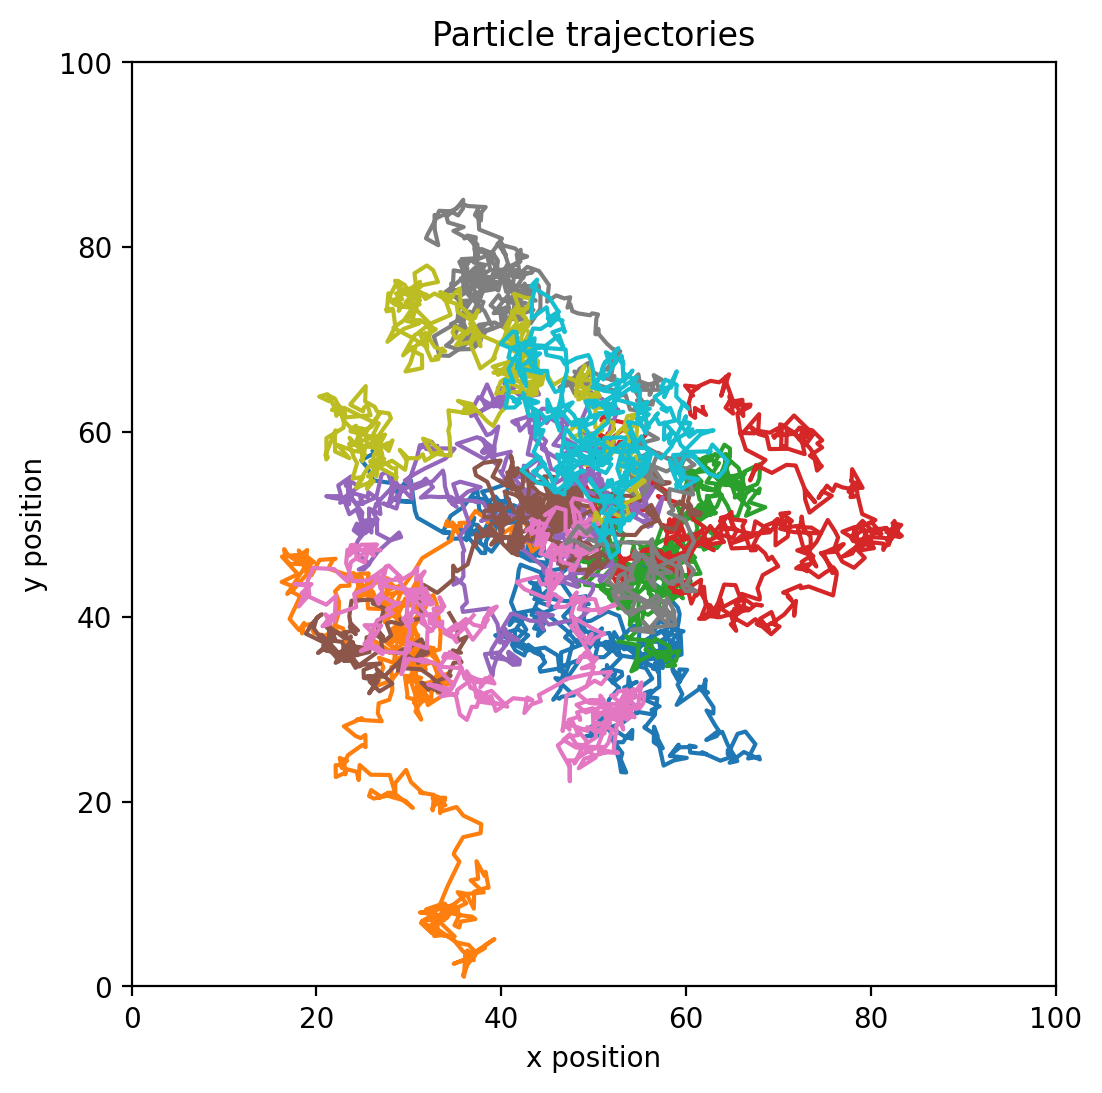
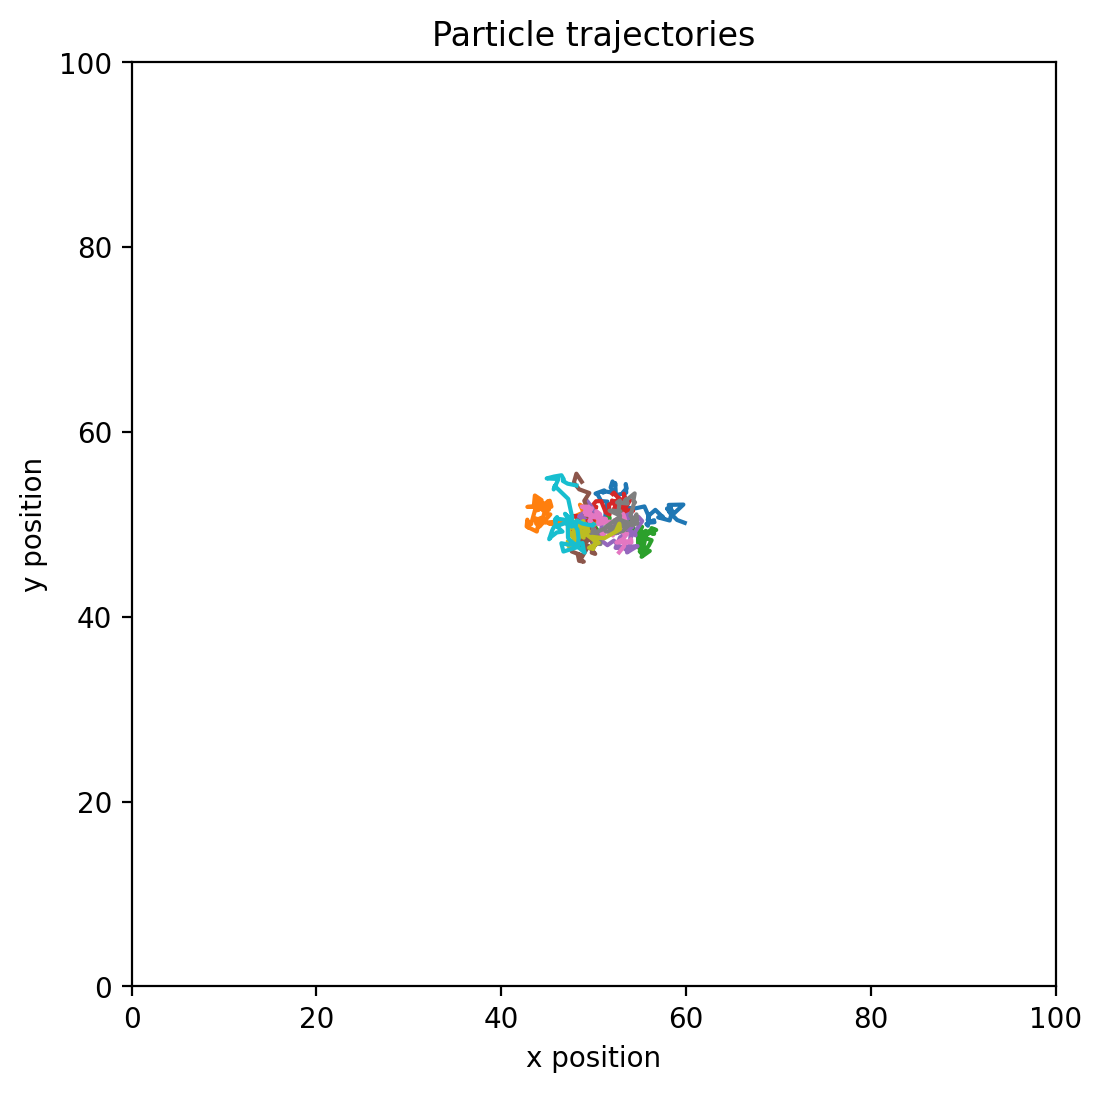
finished module 1 answers.

Changed region(s): [[0.2468, 0.1866, 0.833, 0.7155], [0.2777, 0.6532, 0.4628, 0.9021]]

diff --git a/docs/module_01_comprehension_questions.md b/docs/module_01_comprehension_questions.md
@@ -1,0 +1,166 @@
+# Module 1 Comprehension Questions
+
+Use a recorded experiment and its trajectory plot when answering these questions. State the seed and parameters you used whenever a question asks about a specific run.
+
+## Reading One Trajectory
+
+1. Follow one particle from its starting point to its final point. Does its path resemble a straight line? What visible features support your answer?
+**No, it is a very jagged line.  I ran one particle for 500 steps with 0.25 noise factor.**
+> **Feedback:** Correct. The jagged path is the visible consequence of many independent random increments. Record the seed as well as the number of steps and noise scale for a particular run.
+
+2. At any point along that trajectory, could you have reliably predicted its next direction from the plot alone? Why or why not?
+**No, althought I need more explanation on what the Gauss factor is in the randomness.**
+> **Feedback:** `gauss(0, noise_scale)` samples a displacement from a normal (Gaussian) distribution with mean $0$ and standard deviation `noise_scale`. Mean $0$ means no preferred $x$ or $y$ direction across many steps, not that an individual step is zero. Each step draws fresh independent values for $x$ and $y$, so the plot cannot predict the next direction.
+
+3. Does ending close to the starting position mean that the particle moved very little during the experiment? Explain using the plotted path.
+**No, it moves according the number of steps**
+> **Feedback:** Good direction. Ending near the start means **net displacement** is small, but the particle may still have traveled a long total path while repeatedly changing direction. More steps create more opportunities to move; they do not guarantee a large final displacement.
+
+4. What does the trajectory plot show directly? What information about the simulation does it not show directly?
+**It shows jagged paths**
+> **Feedback:** It directly shows the recorded $x,y$ positions and their order. It does not directly show the random draws, their distribution, molecular collisions, a physical time calibration, or biological accuracy.
+
+5. In this model, what does one plotted segment represent mathematically?
+**One segment represents a vector**
+> **Feedback:** Correct. More precisely, it is the displacement vector between consecutive recorded positions: $(\Delta x, \Delta y)$.
+
+## Comparing Many Particles
+
+6. Run one particle and then 100 particles with the same seed, noise scale, number of steps, and domain. What changes in the visualization?
+**There are many more colors**
+> **Feedback:** Correct. The larger run also makes the population's spread easier to see because it provides many samples of the same stochastic process.
+
+7. Which behavior appears more predictable: an individual trajectory or the overall distribution of many particle positions? Describe the evidence in the plot.
+**The overall distribution seems much more predictable**
+> **Feedback:** Correct. Individual paths remain unpredictable, but many independent particles reveal a more stable aggregate spatial pattern.
+
+8. Do particles that start from the same position follow identical paths? Which model rule explains the result?
+**No, I think it's the randomness**
+> **Feedback:** Correct. Each particle receives separate random $x$ and $y$ draws on every step, so shared starting positions do not produce shared trajectories.
+
+9. Is a visibly spread-out group of particles evidence that every particle has moved the same distance? How could you check?
+**I'm not sure.**
+> **Feedback:** No. A spread-out cloud means final positions differ; it does not mean final distances are equal. Compare individual final displacements or the printed displacement variance. A nonzero variance means the distances are not all the same.
+
+10. Why can a collection of unpredictable paths still form a recognizable cloud of positions?
+**I'm not sure**
+> **Feedback:** Repeated independent random steps produce a distribution of outcomes. One path is noisy, but many particles sample that distribution, making the overall cloud more regular and interpretable.
+
+## Noise Scale
+
+11. Compare runs with low, medium, and high `--noise-scale`, keeping all other parameters fixed. How does the typical distance from the start change?
+**Distance from the start goes up with noise.**
+> **Feedback:** Correct. In an unbounded run, larger `noise_scale` produces larger typical steps and therefore generally larger final displacements.
+
+12. How does increasing noise scale affect the visual jaggedness of individual paths?
+**I don't think there's any effect**
+> **Feedback:** There is an effect, though it can be subtle: higher noise makes step vectors longer on average, so paths cover more space and have larger visible excursions. Their angular unpredictability remains random at every noise level.
+
+13. Which printed statistic changes most clearly as you increase noise scale: mean displacement, displacement variance, or mean squared displacement? Report the values you observe.
+**Mean displacement**
+> **Feedback:** That may be true for one small sample. For this model, mean squared displacement is usually the most informative: in unbounded independent Gaussian walks, its expected value grows with the square of noise scale. Reflecting boundaries limit that growth in a finite domain.
+
+14. Why does the model use a distribution of step sizes instead of a single fixed step length?
+**I'm not sure**
+> **Feedback:** This is a modeling choice, not a requirement for every random walk. A normal distribution makes small displacements common and large ones rare, approximating varying net effects of many unmodeled collisions. A fixed-length, random-direction walk would be another valid model.
+
+15. Does a larger noise scale make a trajectory more biologically realistic by itself? What additional physical information would be required before making that claim?
+**I'm not sure**
+> **Feedback:** No. A physical claim would need a relation to elapsed time, temperature, fluid viscosity, molecular size or shape, and a measured or justified diffusion coefficient.
+
+## Duration And Statistics
+
+16. Compare a short and long run with every other parameter fixed. How does trajectory length in the plot change?
+**I think trajectory length would increase**
+> **Feedback:** Correct. A longer run adds more plotted segments and generally increases total path length, but it does not necessarily move the final point farther from the start.
+
+17. Does a longer run guarantee that every particle ends farther from its starting point? Explain why a random walk can return toward its start.
+**No, I think a particle always has a chance to reverse course**
+> **Feedback:** Correct. Later random steps can partially or fully cancel earlier ones, allowing a particle to return near its start after extensive movement.
+
+18. What is the difference between mean displacement and mean squared displacement in this experiment?
+**I'm not sure**
+> **Feedback:** Mean displacement averages the final distances $d$ from start to finish. Mean squared displacement averages $d^2$. Squaring gives greater weight to particles ending farther away and connects to random-walk and diffusion theory.
+
+19. Why might mean squared displacement be useful when a population's average signed movement in any particular direction is near zero?
+**I'm not sure**
+> **Feedback:** This implementation uses distance rather than signed displacement. More generally, signed $x$ or $y$ movement can cancel in a symmetric population even while particles spread. Squared displacement stays positive and captures that spreading.
+
+20. If two runs have the same noise scale but different seeds, should their summary statistics be exactly equal? Why or why not?
+**No, but I'm not sure why**
+> **Feedback:** Different seeds select different sequences of random draws, so finite runs generally have different paths and sample statistics. Larger runs should show similar broad behavior, not exactly equal values.
+
+## Reproducibility
+
+21. Run the exact same command twice. Are the printed statistics and trajectory plot identical? What role does `--seed` play?
+**Yes, --seed probably generates the same sequence of random numbers**
+> **Feedback:** Correct. The seed initializes the pseudorandom-number generator so it produces the same sequence for the same program and configuration.
+
+22. Change only `--seed`. Which parts of the result should change, and which configuration values should remain the same?
+**I'm not sure**
+> **Feedback:** Paths, final positions, and summary statistics generally change. Particle count, steps, dimensions, timestep, noise scale, boundary policy, and initial positions remain the same; the seed value changes by design.
+
+23. Is a seeded random simulation no longer stochastic? Distinguish reproducibility from predictability.
+**It is still stochastic, it just makes the experiment repeatable**
+> **Feedback:** Correct. The model still specifies probabilistic sampling; the seed merely lets the computer replay one particular sampled outcome.
+
+24. What minimum information would another person need to reproduce one of your plots exactly?
+**They would need the code, the parameters and the seed value**
+> **Feedback:** Good answer. For stronger reproducibility, also include initial conditions, boundary policy, code version or commit, and Python/package versions.
+
+
+## Scientific Interpretation
+
+> **Note:** Questions 25-28, on reflecting versus unbounded boundaries, are absent from this version of the worksheet. A useful follow-up is a small-domain, high-noise comparison using `--boundary-policy reflecting` and `--boundary-policy none`.
+
+29. Identify one biological observation that motivates this model, one mathematical assumption the model makes, and one software choice made by this implementation.
+**I think we're trying to model how materials move inside cells, it assumes that movement is totally random, and I'm not sure about the software choice**
+> **Feedback:** A sharper version: the motivating observation is continual thermally driven molecular motion and collisions; the mathematical assumption is independent, discrete Gaussian position increments; and one software choice is Python's seeded pseudorandom generator with every trajectory position stored. "Totally random" is too broad because the model omits interactions, drift, and other constraints.
+
+30. What does this simulation demonstrate about random microscopic motion and population-level patterns?
+**There is definitely some clustering and patterns that emerge**
+> **Feedback:** Be cautious with "clustering." The model demonstrates that unpredictable individual motion can produce population-level spatial spread and distributions. Dense patches in one finite plot may be chance overlap, not a persistent biological cluster or organized structure.
+
+31. What does it not demonstrate about real molecules in a cell?
+**It doesn't demonstrate the actual physical properties of molecules**
+> **Feedback:** Correct. It does not establish real molecular transport rates or physical properties, and it omits molecular size, interactions, energy landscapes, solvent behavior, and chemical reactions.
+
+32. List at least three omitted mechanisms that would matter in a more physical model of molecular motion.
+**Ion attraction or bonding, and I'm not sure on the others**
+> **Feedback:** Good first example. Other omissions include molecular size and excluded-volume collisions, solvent viscosity and hydrodynamic effects, temperature-dependent diffusion, membrane interactions, active transport, and binding or unbinding reactions.
+
+33. The timestep is recorded as metadata in Module 1. Does it yet change the scale of the random displacement? How could you verify your answer from the available experiment controls and code?
+**Not sure**
+> **Feedback:** No. In the current code, `timestep` is metadata only and does not scale displacement. Run otherwise identical commands with the same seed but different `--timestep` values: the trajectories and displacement statistics will match, apart from reported timestep metadata.
+
+34. What result would make you question whether the implementation is behaving as intended? Propose one automated test or manual experiment that could investigate it.
+**I would question the experiement if I got something that looked like a diagram from a science book**
+> **Feedback:** The instinct is sensible, but make the check falsifiable. For example: `--noise-scale 0` should leave every position unchanged; matching seeds and parameters should reproduce identical trajectories; and reflecting boundaries should never record a position outside the domain. A textbook-like image alone does not prove an error.
+
+## Experiment Reflection
+
+For one experiment of your choice, record:
+
+```text
+Command:
+Seed:
+Hypothesis:
+Observation from the plot:
+Printed statistics:
+What the model demonstrates:
+What it does not demonstrate:
+One follow-up experiment:
+```
+
+```
+PS C:\Users\wbasinger\OneDrive - PCI\Personal\computational-cell-biology> python experiments\module_01\run_experiment.py --particles 10 --steps 50 --noise-scale 0.6 --seed 55
+Random seed: 55
+Particles: 10
+Steps: 50
+Mean displacement: 4.549541
+Displacement variance: 4.518064
+Mean squared displacement: 25.216388
+Trajectory plot: data\module_01\trajectories.png
+PS C:\Users\wbasinger\OneDrive - PCI\Personal\computational-cell-biology> 
+```
+> **Feedback:** This output records 10 particles, 50 steps, noise scale 0.6, seed 55, mean displacement 4.549541, variance 4.518064, and mean squared displacement 25.216388. Before the next run, record a hypothesis, an observation from the plot, and one model limitation so the command becomes a scientific experiment rather than only a generated image.
